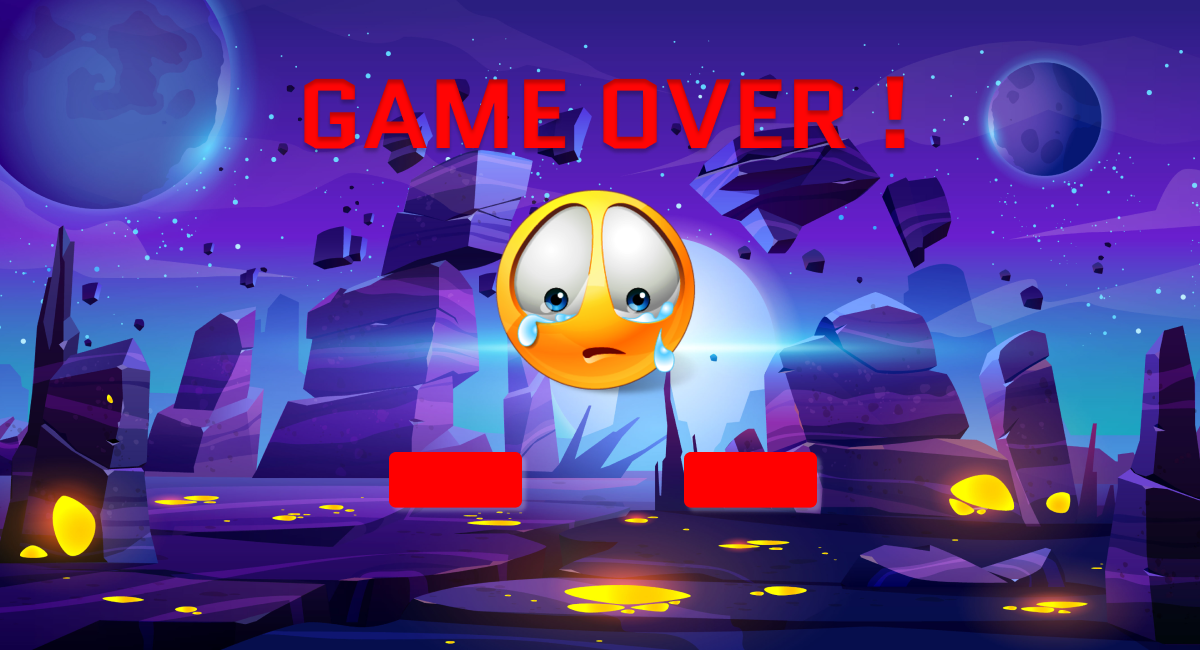
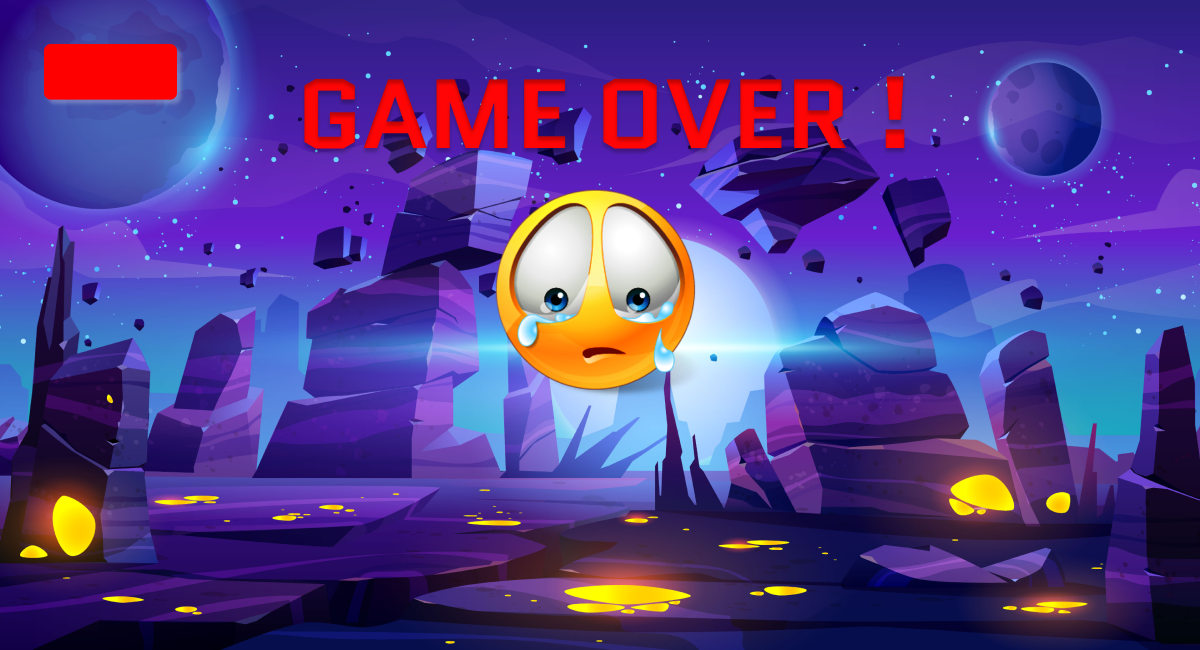
shot

Changed region(s): [[0.3083, 0.6769, 0.4625, 0.8], [0.555, 0.6769, 0.7092, 0.8], [0.0308, 0.0615, 0.1542, 0.1846]]

diff --git a/invader_shooter.py b/invader_shooter.py
@@ -42,7 +42,7 @@ fire_player = tk.PhotoImage(file="./img/fire_player.png")
 black_ennemy_image = tk.PhotoImage(file="./img/black-animy.png") #SIZE OF ENNEMY (95x95)
 blue_ennemy_image = tk.PhotoImage(file="./img/blue-animy.png")
 red_ennemy_image = tk.PhotoImage(file="./img/red-animy.png")
-main_ennemy_image = tk.PhotoImage(file="./img/main-animy.png")
+main_ennemy_image = tk.PhotoImage(file="./img/main-animy.png") #SIZE OF ENNEMY (330x330)
 
 display_game = False
 def display_start_game():
@@ -54,6 +54,11 @@ def display_start_game():
         canvas.create_rectangle(660,290,816,350,fill="red",outline="",tags="start")
         canvas.create_text(744,320,text="EXIT",font=("Purisa", 30, BOLD), fill="white",tags=("exitTheGame","start"))
 display_start_game()
+
+def backGame(event):
+    global display_game
+    display_game = False
+    display_start_game()
 
 #EXIT THE WINDOW TO STOP THE PROGRAME-----------------------------
 def close_the_window(event):
@@ -70,7 +75,8 @@ def start_process(event):
 def loading_the_process():
     canvas.create_image(0,0,image= loading_background, anchor = NW)
     canvas.create_text(600,300,text="Loading...", font= ("Purisa", 40,BOLD), fill="red")
-    canvas.after(1000,in_processing)
+    durationOfLoading = random.randrange(500,2000)
+    canvas.after(durationOfLoading,in_processing)
 
 
 #GAME IN PROCESSING-------------------------------------------
@@ -82,9 +88,9 @@ def in_processing():
     positionYOfPlayer = random.randrange(100,400)
     x = 86
     for i in range(5):
-        live = canvas.create_rectangle(x,22,x+40,50,fill="red",outline="",tags="blood")
+        life = canvas.create_rectangle(x,22,x+40,50,fill="red",outline="",tags="blood")
         x += 46
-        listOfPlayerLives.append(live)
+        listOfPlayerLives.append(life)
     player_socre = canvas.create_text(160,100,text="SCORE: 0",font=("Purisa", 16, BOLD), fill="white",tags=("startTheGame","start"))
     player_pos = canvas.create_image(positionXOfPlayer, positionYOfPlayer, image=player)  
     # CALL THE FUNCTION TO PROGRESS=========================================
@@ -95,7 +101,7 @@ def in_processing():
     move_ennemy_bullet()
 
 def global_variable():
-    global listOfPlayerLives, minusPlayerLives, listOfEnemies,SCORE,listOfPlayerBullet,listOfEnnemyBullet,posOfEachEnnemy,newEnnemyStartX,newEnnemyStartY,playerStartX,playerStartY,BulletPlayerStartX,BulletPlayerStartY,positionXOfMainEnnemy,positionYOfMainEnnemy
+    global listOfPlayerLives, minusPlayerLives, listOfEnemies,SCORE,listOfPlayerBullet,listOfEnnemyBullet,posOfEachEnnemy,newEnnemyStartX,newEnnemyStartY,playerStartX,playerStartY,BulletPlayerStartX,BulletPlayerStartY,positionXOfMainEnnemy,positionYOfMainEnnemy,stopTheGame,NUMBEROFALLENEMY
     # # VARIABLES
     # # ----------------------------------------------
     listOfPlayerLives = []
@@ -115,16 +121,20 @@ def global_variable():
     BulletPlayerStartY = 400
     positionXOfMainEnnemy = 1200
     positionYOfMainEnnemy = 650
+    stopTheGame = True
+    NUMBEROFALLENEMY = 100
 
+# DISPLAY FEATURE WHEN PLAYER LOST THE GAME=================================================
 def displayLost():
     canvas.create_image(1200, 650, anchor=SE, image=game_over)
-    canvas.create_text(452,480,text="AGAIN",font=("Purisa", 25, BOLD), fill="white",tags=("startTheGame","start"))
-    canvas.create_text(748,480,text="EXIT",font=("Purisa", 25, BOLD), fill="white",tags=("exitTheGame","start"))
+    canvas.create_text(110,70,text="BACK",font=("Purisa", 22, BOLD), fill="white",tags=("back","start"))
+    canvas.create_text(600,480,text="SCORES: "+ str(SCORE),font=("Purisa", 50, BOLD), fill="white",tags=("start"))
 
+# DISPLAY FEATURE WHEN PLAYER WIN THE GAME========================================
 def displayWin():
     canvas.create_image(1200, 650, anchor=SE, image=game_win)
-    canvas.create_text(460,493,text="AGAIN",font=("Purisa", 25, BOLD), fill="white",tags=("startTheGame","start"))
-    canvas.create_text(725,493,text="EXIT",font=("Purisa", 25, BOLD), fill="white",tags=("exitTheGame","start"))
+    canvas.create_text(110,70,text="BACK",font=("Purisa", 22, BOLD), fill="white",tags=("back","start"))
+    canvas.create_text(600,480,text="SCORES: "+ str(SCORE),font=("Purisa", 50, BOLD), fill="white",tags=("start"))
 
 # # ----------------------------------------------
 # # CONSTANTS
@@ -170,23 +180,30 @@ def goRight():
 
 # CREATE THE ENNEMIES AND THEIR BULLET TO DISPLAY ON SCREEN ===================
 def create_enemy():
-    global newEnnemyStartY
-    numberEnnemyOnce = random.randrange(6,12)
-    if minusPlayerLives < 5 and SCORE < 2:
-        if len(listOfEnemies) < numberEnnemyOnce:
+    global newEnnemyStartY,NUMBEROFALLENEMY
+    if SCORE <= 50 :
+        numberEnnemyOnce = random.randrange(5,10)
+    elif SCORE > 50 :
+        numberEnnemyOnce = random.randrange(10,20)
+    if stopTheGame:
+        if len(listOfEnemies) < numberEnnemyOnce and NUMBEROFALLENEMY > 0:
             newEnnemyStartY =random.randrange(20,500)
             ennemyImage = random.choice(ENNEMY_IMAGES)
             newEnemy = canvas.create_image(newEnnemyStartX,newEnnemyStartY,image=ennemyImage)
             listOfEnemies.append(newEnemy)
             bullet_of_ennemy = canvas.create_image(newEnnemyStartX, newEnnemyStartY, image=bullet_ennemy)
             listOfEnnemyBullet.append(bullet_of_ennemy)
+            NUMBEROFALLENEMY -= 1
         newEnnemyStartY = 30
-        canvas.after(1000, create_enemy)
+        if SCORE <= 50 :
+            canvas.after(1000, create_enemy)
+        elif SCORE > 50 :
+            canvas.after(600, create_enemy)
 
 # MOVE POSITION OF THE ENNEMIES TO ANYWHERE===========================
 def move_enemies():
     ennemiesToBeDeleted = []
-    if minusPlayerLives < 5 and SCORE < 20:
+    if stopTheGame:
         for enemy in listOfEnemies:
             canvas.move(enemy, -10, 2)
             posOfEachEnnemy = canvas.coords(enemy)
@@ -200,15 +217,15 @@ def move_enemies():
 
 # CREATE THE BULLET OF THE PLAYER TO DISPLAY ON SCREEN ===================
 def create_player_bullet():
-    if minusPlayerLives < 5 and SCORE < 20:
-        bullet_of_player = canvas.create_image(getPlayerPosition()[0] + 80, getPlayerPosition()[1], image=bullet_player, tags="player_bullet")
+    if stopTheGame:
+        bullet_of_player = canvas.create_image(getPlayerPosition()[0] + 80, getPlayerPosition()[1], image=bullet_player)
         listOfPlayerBullet.append(bullet_of_player)
         canvas.after(500, create_player_bullet)
 
 # MOVE BULLET OF ENNEMIES TO THE PLAYER   ==============================
 def move_ennemy_bullet():
     bulletEnnemyToRemove = []
-    if minusPlayerLives < 5 and SCORE < 20:
+    if stopTheGame:
         for bullet_ennemy in listOfEnnemyBullet:
             canvas.move(bullet_ennemy, -30, 0)
             pos_bullet = canvas.coords(bullet_ennemy)
@@ -223,7 +240,7 @@ def move_ennemy_bullet():
 # MOVE BULLET OF PLAYER TO THE ENNEMIES ==============================
 def move_player_bullet():
     bulletToRemove = []
-    if minusPlayerLives < 5 and SCORE < 20:
+    if stopTheGame:
         for bullet in listOfPlayerBullet:
             canvas.move(bullet, 20, 0)
             # winsound.PlaySound("sound/shoot.wav",winsound.SND_FILENAME | winsound.SND_ASYNC)
@@ -255,7 +272,6 @@ def disappearFire():
 def playerBulletMeetEnnemy(listOfPlayerBullets, listOfEnemies):
     global enemy
     toBeDeleted = []
-    # posMainEnnemy = canvas.coords(main_ennemy)
     for playerBullet in listOfPlayerBullets:
         positionOfBulletPlayer = canvas.coords(playerBullet)
         for enemy in listOfEnemies:
@@ -264,8 +280,6 @@ def playerBulletMeetEnnemy(listOfPlayerBullets, listOfEnemies):
                 toBeDeleted.append(playerBullet)
                 toBeDeleted.append(enemy)
                 displayFire()
-            # if SCORE == 2  and (positionOfBulletPlayer[1]+BULLET_SIZE >= posMainEnnemy[1]) and (positionOfBulletPlayer[1]+BULLET_SIZE <= posMainEnnemy[1]+ENNEMY_SIZE ) and (positionOfBulletPlayer[0]+BULLET_SIZE >= posMainEnnemy[0]) and (positionOfBulletPlayer[0]+BULLET_SIZE <= posMainEnnemy[0]+ENNEMY_SIZE):
-            #     displayFire()
     return toBeDeleted
 
 # TO CHECK IF ENNEMY BULLET MEET PLAYER========================================
@@ -304,10 +318,11 @@ def bulletMeetEnnemy():
 
 # TO MINUS LIVE OF THE PLAYER WHENEVER TOUCHED ENNEMY OR BULLET OF THE ENNEMY====
 def bulletMeetPlayer():
-    global minusPlayerLives
+    global minusPlayerLives,stopTheGame
     minusPlayerLives += 1
     canvas.itemconfig(listOfPlayerLives[-minusPlayerLives], fill="")
     if minusPlayerLives == 5:
+        stopTheGame = False
         canvas.after(500,displayLost)
 
 # TO DELETE=============================================
@@ -321,87 +336,17 @@ def deleteEnnemy(ennemy):
 
 # INCREMENT SOCRE FOR PLAYER WHEN ITS BULLET TOUCH ENNEMY=========================
 def scoreIncrement():
-    global SCORE
+    global SCORE,stopTheGame
     SCORE += 1
     if SCORE <= 1: 
         title = "SCORE: "
     else:
         title = "SCORES: "
     canvas.itemconfig(player_socre,text= title + str(SCORE))
-    if SCORE == 50:
-        canvas.after(200,displayWin)
-    if SCORE == 2:
-        appear_main_ennemy()
+    if NUMBEROFALLENEMY == 0 and len(listOfEnemies) == 0:
+        stopTheGame = False
+        canvas.after(500,displayWin)
 
-# APPEAR MAIN ENNEMY TO ATTACK WITH PLAYER===================
-def appear_main_ennemy():
-    global main_ennemy,listLiveOfEnnemy,listOfMainEnnemyBullet,positionXOfMainEnnemy,positionYOfMainEnnemy
-    main_ennemy = canvas.create_image(positionXOfMainEnnemy, positionYOfMainEnnemy, anchor=SE, image= main_ennemy_image)
-    listLiveOfEnnemy = []
-    listOfMainEnnemyBullet = []
-    x = 780
-    for i in range(20):
-        live = canvas.create_rectangle(x,610,x+20,630,fill="red",outline="",tags="blood")
-        x += 20
-        listLiveOfEnnemy.append(live)
-    create_main_ennemy_bullet()
-    move_main_ennemy_up()
-    move_main_ennemy_bullet()
-
-# MOVE MAIN ENNEMY UP========================
-def move_main_ennemy_up():
-    if minusPlayerLives < 5 and SCORE < 20:
-        posMainEnnemy = canvas.coords(main_ennemy)
-        if posMainEnnemy[1] <= 650 and posMainEnnemy[1] > 250 and SCORE < 20:
-            canvas.move(main_ennemy,-2,-10)
-            canvas.after(100,move_main_ennemy_up)
-        else: 
-            move_main_ennemy_down()
-
-# MOVE MAIN ENNEMY DOWN ===================================
-def move_main_ennemy_down():
-    if minusPlayerLives < 5 and SCORE < 20:
-        posMainEnnemy = canvas.coords(main_ennemy)
-        if posMainEnnemy[1] < 650 and posMainEnnemy[1] >= 250:
-            canvas.move(main_ennemy,2,10)
-            canvas.after(100,move_main_ennemy_down)
-        else: 
-            move_main_ennemy_up()
-
-# CREATE BULLET OF THE MAIN ENNEMY ===============================================
-def create_main_ennemy_bullet():
-    if minusPlayerLives < 5 and SCORE < 20:
-        posMainEnnemy = canvas.coords(main_ennemy)
-        main_ennemy_bullet = canvas.create_image(posMainEnnemy[0]-180, posMainEnnemy[1]-180, image=bullet_main_ennemy, tags="player_bullet")
-        listOfMainEnnemyBullet.append(main_ennemy_bullet)
-        canvas.after(800, create_main_ennemy_bullet)
-
-# MOVE BULLET OF MAIN ENNEMY ====================================
-def move_main_ennemy_bullet():
-    bulletToRemove = []
-    toBeDeleted = []
-    if minusPlayerLives < 5 and SCORE < 20:
-        for bullet in listOfMainEnnemyBullet:
-            canvas.move(bullet, -20, 0)
-            # winsound.PlaySound("sound/shoot.wav",winsound.SND_FILENAME | winsound.SND_ASYNC)
-            pos_bullet = canvas.coords(bullet)
-            if pos_bullet[0] < 50:
-                bulletToRemove.append(bullet)
-            if (getPlayerPosition()[1]+PLAYER_HEIGHT >=pos_bullet[1]) and (getPlayerPosition()[1]+PLAYER_HEIGHT <= pos_bullet[1]+85) and (getPlayerPosition()[0]+PLAYER_WIDTH >= pos_bullet[0]) and (getPlayerPosition()[0]+PLAYER_WIDTH <= pos_bullet[0]+85):
-                toBeDeleted.append(bullet)
-                displayFirePlayer()
-                bulletMeetPlayer()
-                bulletToRemove.append(bullet)
-        for bullet in bulletToRemove:
-            listOfMainEnnemyBullet.remove(bullet)
-            canvas.delete(bullet)
-        canvas.after(100,move_main_ennemy_bullet)
-    return toBeDeleted
-
-# def displayFirePlayer():
-#     # winsound.PlaySound("sound/explosion.wav",winsound.SND_FILENAME | winsound.SND_ASYNC)
-#     canvas.create_image(getPlayerPosition()[0]+80,getPlayerPosition()[1],image=fire_player,tags="deleteFire")
-#     canvas.after(300,disappearFire)
 
 # KEYS THAT PLAYER HAS TO PRESS TO PLAY THE GAME=================================
 window.bind("<w>", onWPressed)
@@ -411,6 +356,7 @@ window.bind("<a>",onAPressed)
 #LEFT CLICK TO START OR EXIT THE GAME==================================
 canvas.tag_bind("startTheGame","<Button-1>",start_process)
 canvas.tag_bind("exitTheGame","<Button-1>",close_the_window)
+canvas.tag_bind("back","<Button-1>",backGame)
 #DISPLAY WINDOW====================================================
 canvas.pack(expand=True,fill="both")
 frame.pack(expand=True,fill="both")
